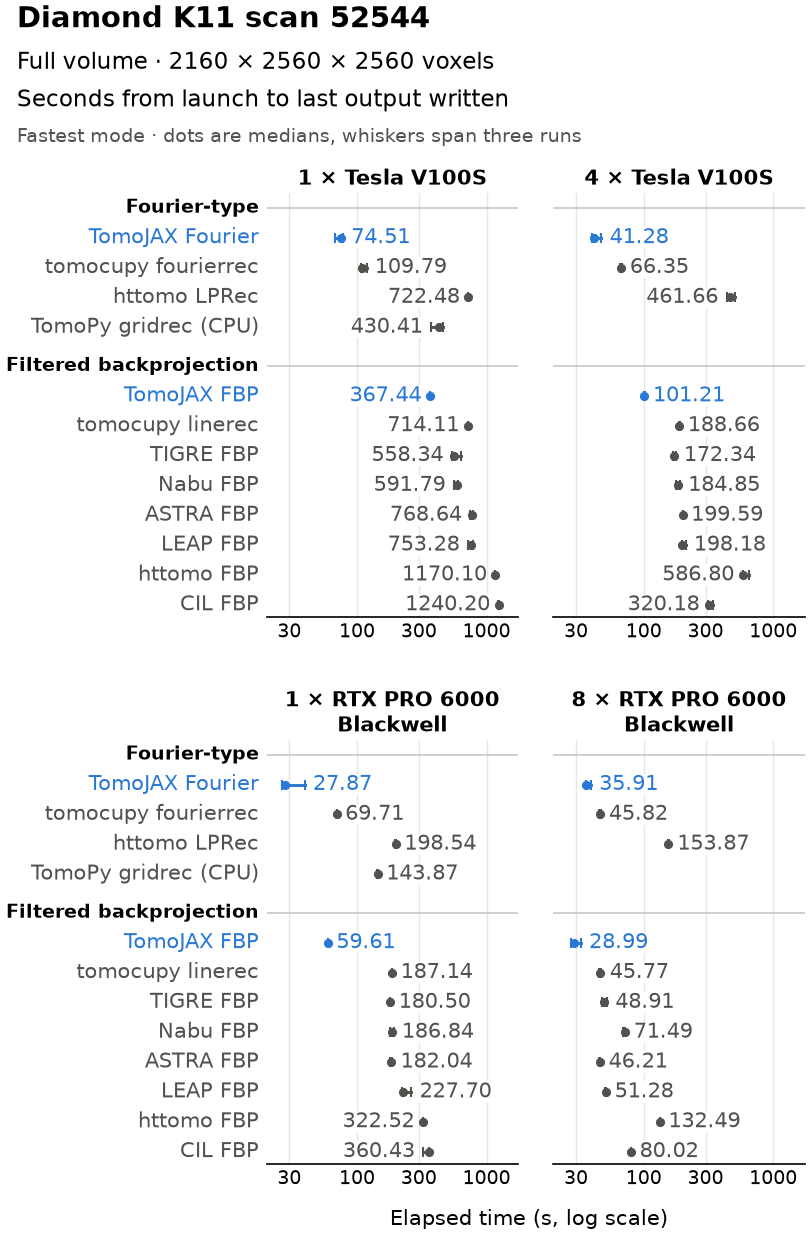
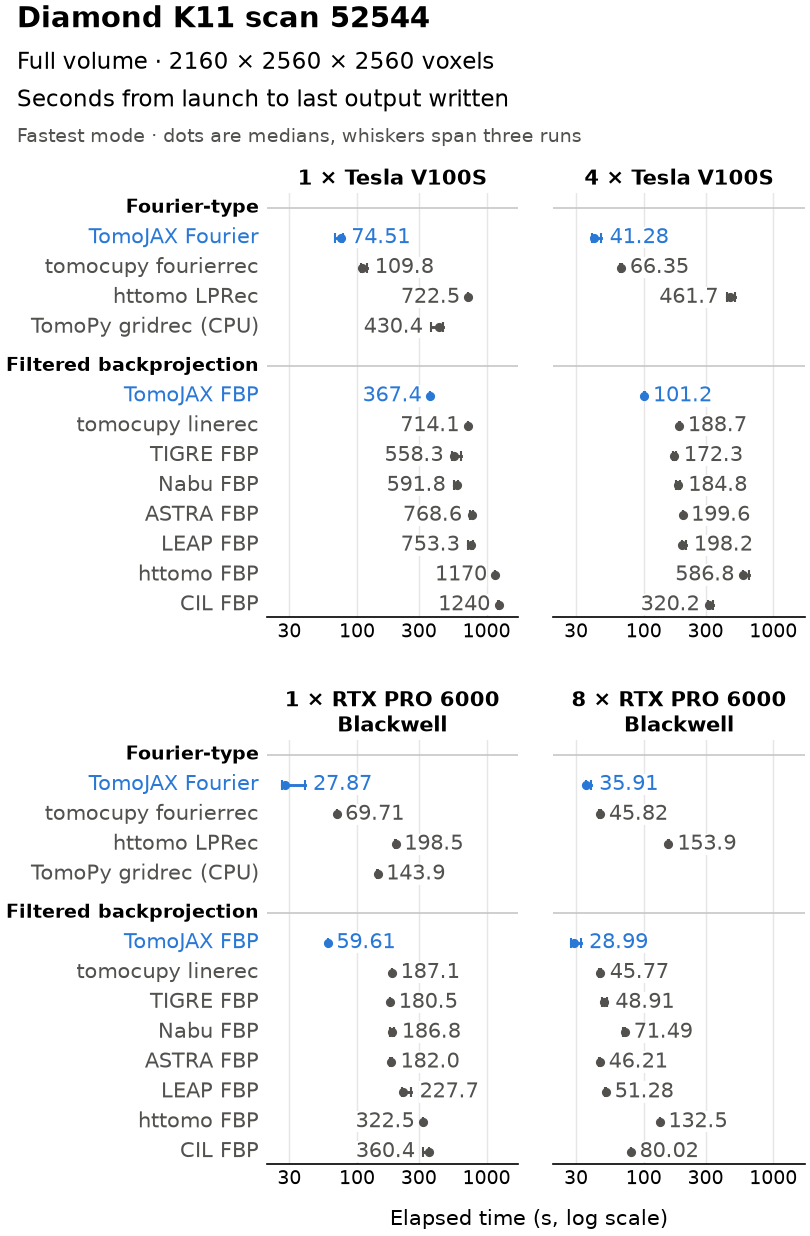
Label the speed figure to four significant figures

diff --git a/examples/gallery/speed_comparison.py b/examples/gallery/speed_comparison.py
@@ -147,7 +147,7 @@ def main() -> None:
                 # Keep labels inside narrow panels at both ends of the time axis.
                 left = median > 300
                 ax.annotate(
-                    f"{median:.2f}",
+                    f"{median:#.4g}".rstrip("."),  # four significant figures
                     (low if left else high, y),
                     xytext=(-4 if left else 4, 0),
                     textcoords="offset points",
